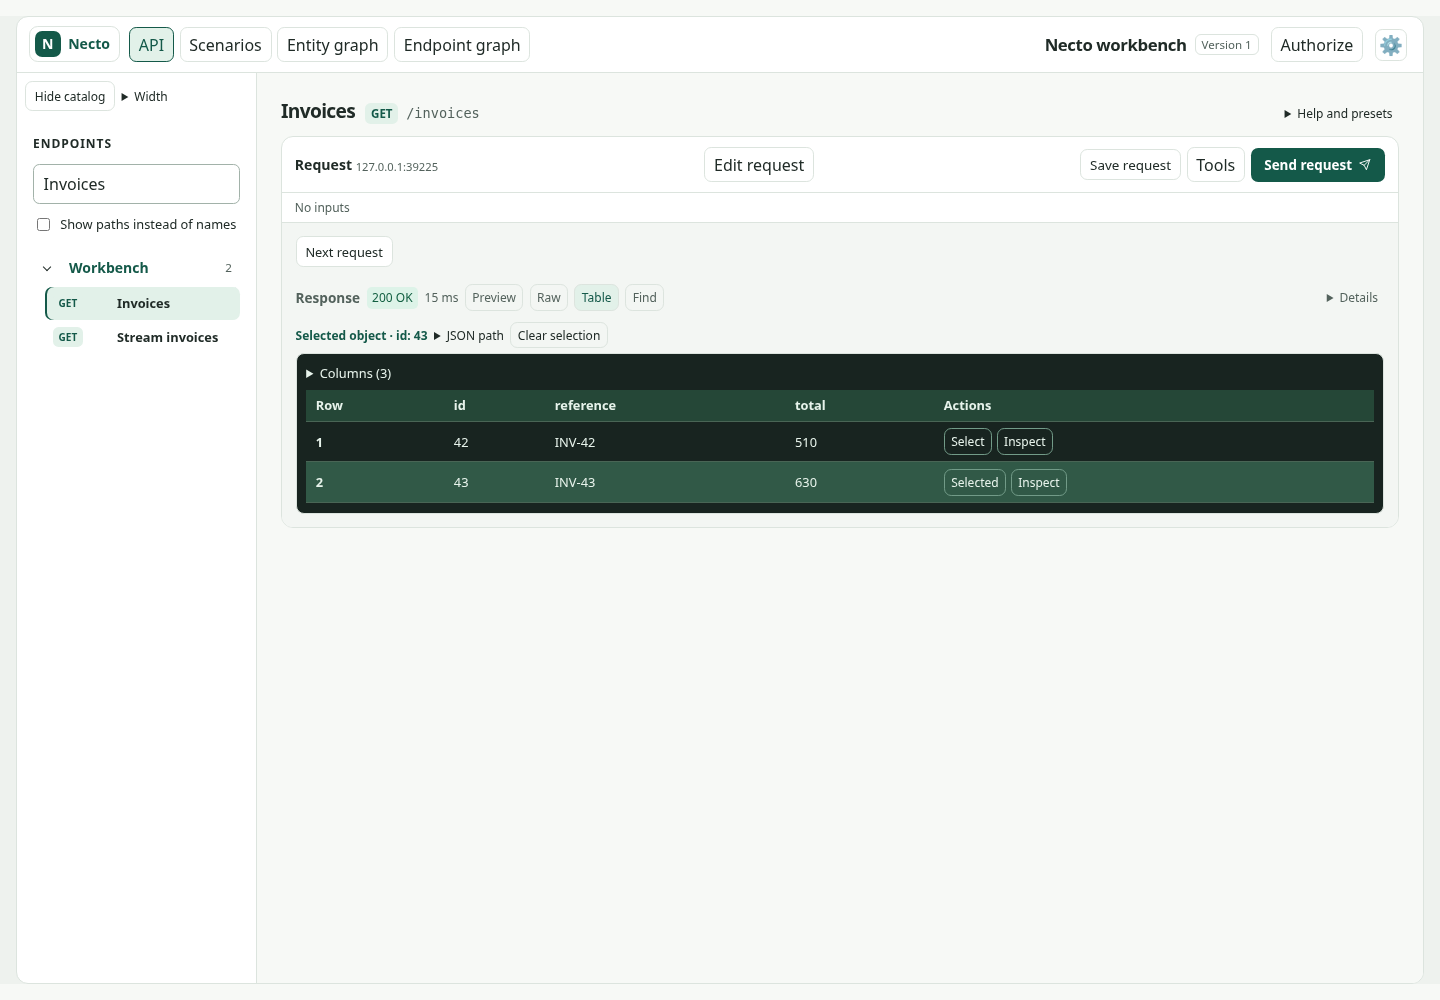
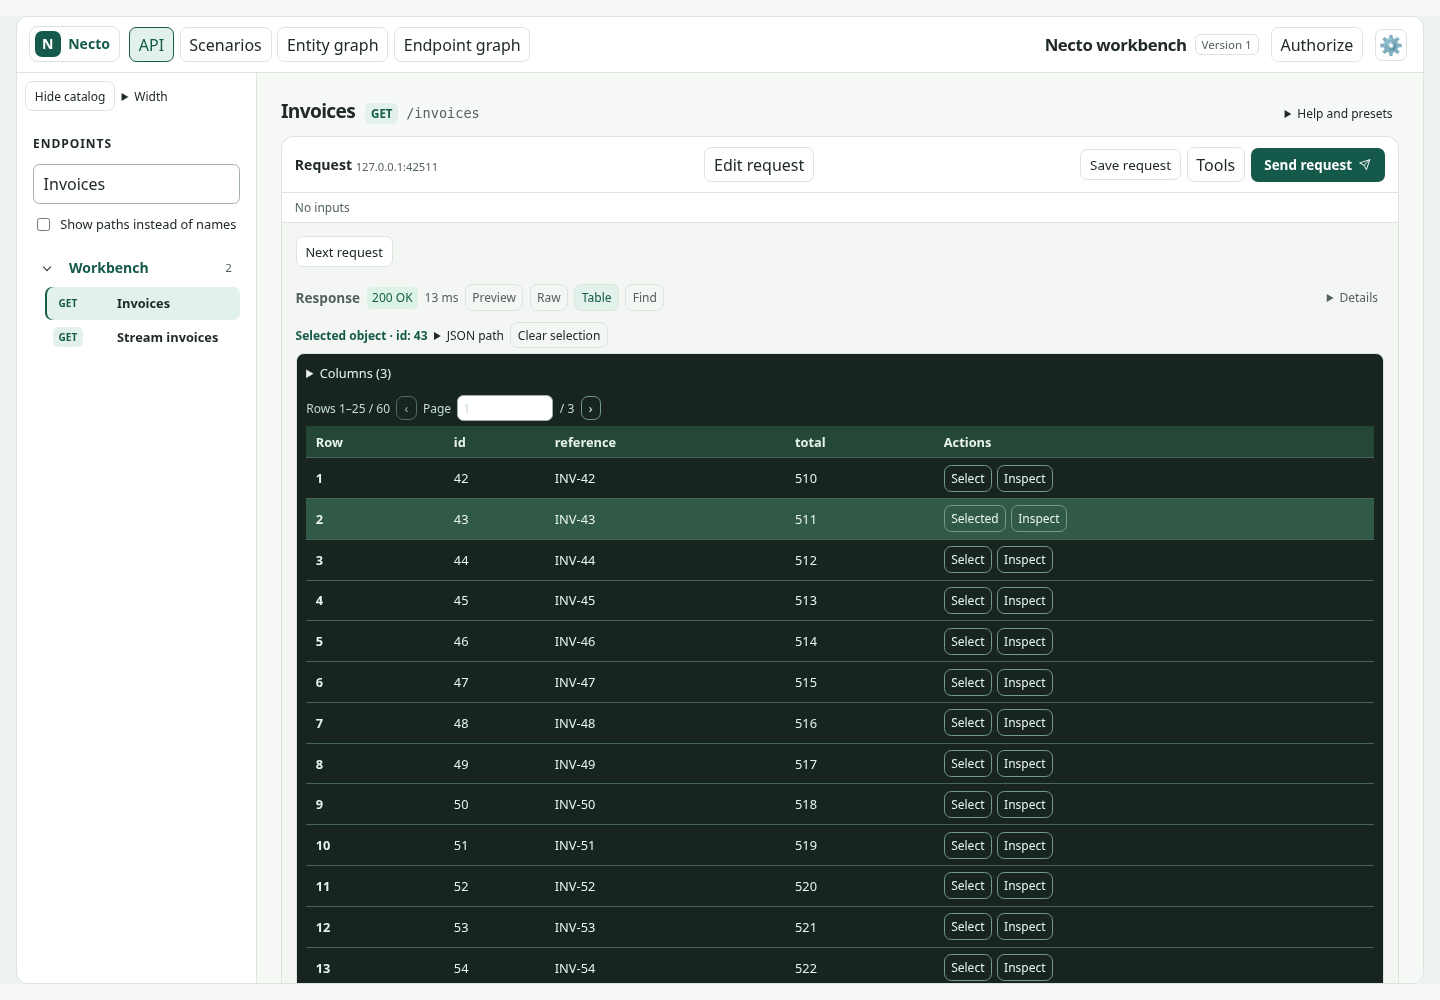
U12: document the paginated 60-row browser check

diff --git a/docs/ux-review/round-2/u12/README.md b/docs/ux-review/round-2/u12/README.md
@@ -2,6 +2,6 @@
 
 Homogeneous object collections can switch from JSON Preview to Table. Column discovery samples at most 25 rows and exposes at most 12 scalar columns, with six shown by default. Rendering stays paginated at 25 rows and fits the available preview height. Row selection uses the existing mapping paths; Inspect returns to that row in the full JSON tree, including nested fields. Mixed/scalar collections keep the normal preview.
 
-Validation: production build, 117 unit tests including bounded discovery/cells; browser table selection → related value 43 → Inspect → full response. JSON remains the default.
+Validation: production build, 117 unit tests including bounded discovery/cells; browser 60-row collection with 25 rendered rows per page, page-two values, table selection → related value 43 → Inspect → full response. JSON remains the default.
 
 ![Paged collection table](collection-table.png)
